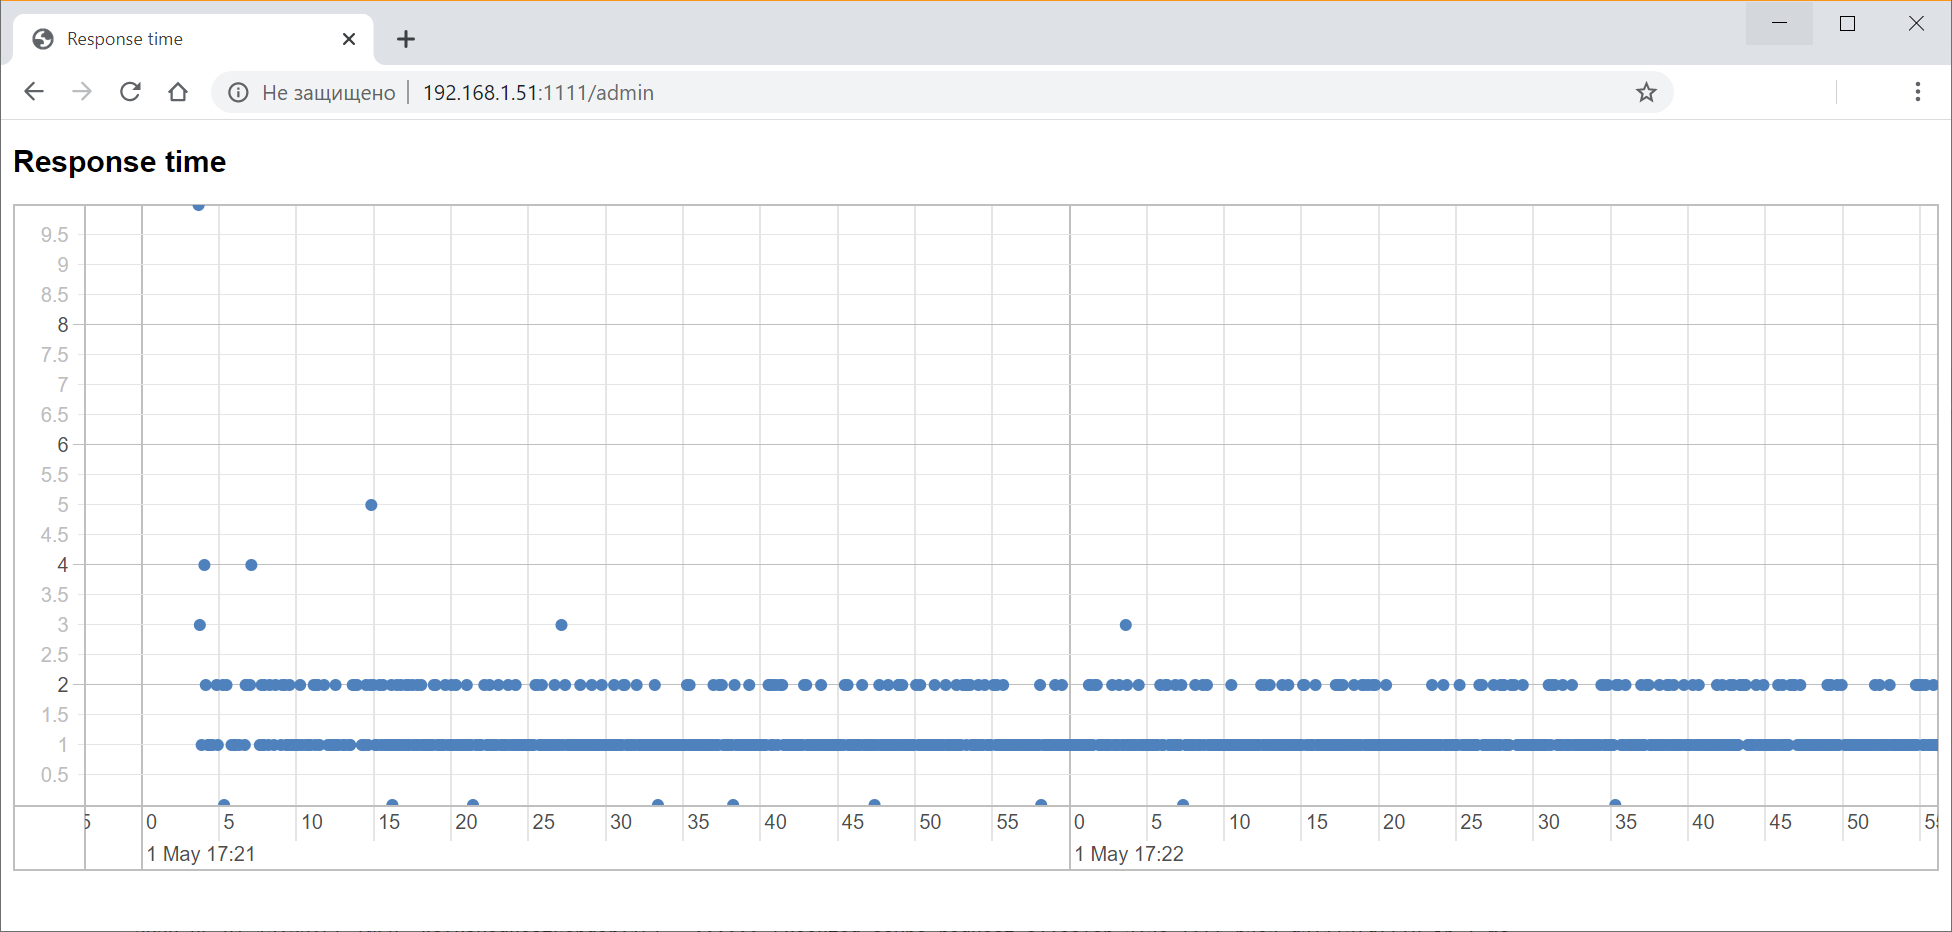
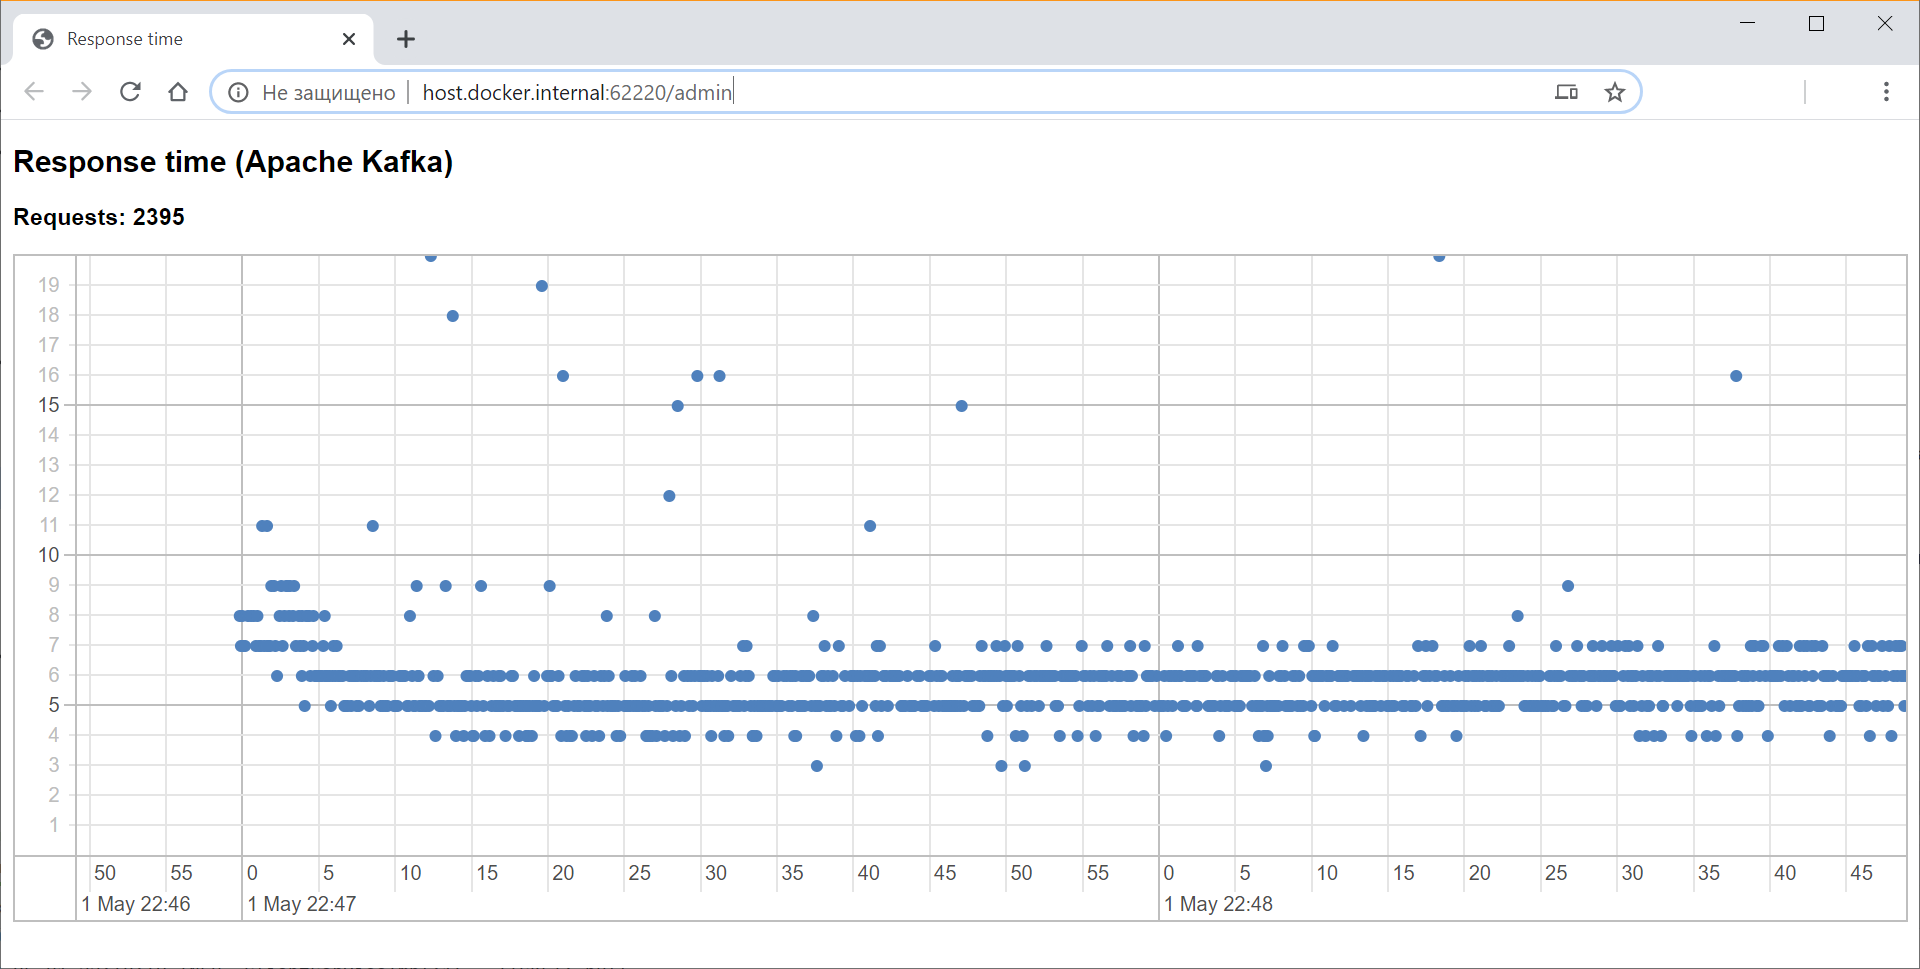
Refactoring

diff --git a/src/main/resources/admin.html b/src/main/resources/admin.html
@@ -21,11 +21,28 @@
 </head>
 
 <body>
-  <h2>Response time</h2>
+  <h2 id="header">Response time</h2>
+  <h3 id="count">Requests: 0</h3>
 
   <div id="visualization" />
 
   <script type="text/javascript">
+
+    var header = document.getElementById('header');
+    var count = document.getElementById('count');
+
+    let headerPrefix = 'Response time';
+    let countPrefix =  'Requests: ';
+    var requestCount = 0;
+
+    var xhr = new XMLHttpRequest();
+    xhr.open('GET', 'protocol', false);
+    xhr.send();
+    if (xhr.status == 200) {
+        header.innerHTML = headerPrefix + ' (' + xhr.responseText + ')';
+    } else{
+        header.innerHTML = headerPrefix;
+    }
     var DELAY = 50;
 
     var container = document.getElementById('visualization');
@@ -37,7 +54,7 @@
       dataAxis: {
         left: {
           range: {
-            min: 0, max: 10
+            min: 0, max: 20
           }
         }
       },
@@ -59,11 +76,13 @@
       if (xhr.status == 200) {
         let fullResponse = xhr.responseText;
         var array = fullResponse.split(';');
+        requestCount += array.length;
         array.forEach(function (item, i, arr) {
           let point = item.split(':');
           result.push([Number(point[0]), Number(point[1])]);
         });
       }
+      count.innerHTML = countPrefix + requestCount;
       return result;
     }
 

diff --git a/src/test/java/com/transport/test/ServerTest.java b/src/test/java/com/transport/test/ServerTest.java
@@ -60,22 +60,27 @@ public class ServerTest {
         }
         personService.testError().onModule("test.server").executeAsync(UUID.randomUUID().toString(), PersonCallback.class);
 
-//        1 hour load test
+//        // 1 hour load test
 //        Runnable runnable = () -> {
 //            long startTime = System.currentTimeMillis();
-//            while(!Thread.currentThread().isInterrupted() && (System.currentTimeMillis() - startTime) < (60 * 60 * 1000)){
+//            while (!Thread.currentThread().isInterrupted() && (System.currentTimeMillis() - startTime) < (60 * 60 * 1000)) {
+//                // Sync call
 //                clientService.lol3("test3").onModule("test.server").executeSync();
+//                // Async call
+//                clientService.lol3("test3").onModule("test.server").withTimeout(10_000).executeAsync(UUID.randomUUID().toString(), ServiceCallback.class);
 //                try {
-//                    Thread.sleep((int)(Math.random() * 100));
+//                    Thread.sleep((int) (Math.random() * 100));
 //                } catch (InterruptedException exception) {
 //                    exception.printStackTrace();
 //                }
 //            }
 //        };
-//
-//        Thread thread = new Thread(runnable);
-//        thread.start();
-//        thread.join();
+//        try {
+//            Thread thread = new Thread(runnable);
+//            thread.start();
+//            thread.join();
+//        } catch (Exception ignore) {
+//        }
         logger.info("================ TEST SERVER STARTED ================");
     }
 }

diff --git a/src/main/java/com/transport/lib/ui/AdminServer.java b/src/main/java/com/transport/lib/ui/AdminServer.java
@@ -3,6 +3,7 @@ package com.transport.lib.ui;
 import com.sun.net.httpserver.HttpExchange;
 import com.sun.net.httpserver.HttpServer;
 import com.transport.lib.entities.Command;
+import com.transport.lib.zookeeper.Utils;
 import lombok.AllArgsConstructor;
 import lombok.Getter;
 import org.apache.commons.collections4.QueueUtils;
@@ -90,7 +91,9 @@ public class AdminServer {
                     respondWithFile(exchange, "vis.min.css");
                 } else if ("/vis.min.js".equals(path)) {
                     respondWithFile(exchange, "vis.min.js");
-                }else if ("/response".equals(path)) {
+                } else if("/protocol".equals(path)){
+                    respondWithString(exchange, Utils.getTransportProtocol().getFullName());
+                } else if ("/response".equals(path)) {
                     int count = 0;
                     StringBuilder builder = new StringBuilder();
                     ResponseMetric metric;

diff --git a/src/main/java/com/transport/lib/entities/Protocol.java b/src/main/java/com/transport/lib/entities/Protocol.java
@@ -10,12 +10,15 @@ import lombok.Getter;
 @Getter
 public enum Protocol {
 
-    KAFKA("kafka"),
-    ZMQ("zmq"),
-    HTTP("http");
+    KAFKA("kafka", "Apache Kafka"),
+    ZMQ("zmq", "ZeroMQ"),
+    HTTP("http", "HTTP/1.1");
 
     // Short protocol name used for service registration in ZooKeeper
-    private String shortName;
+    private final String shortName;
+
+    // Full protocol name used in UI
+    private final String fullName;
 
     public static Protocol getByName(String name) {
         for (Protocol protocol : Protocol.values())
